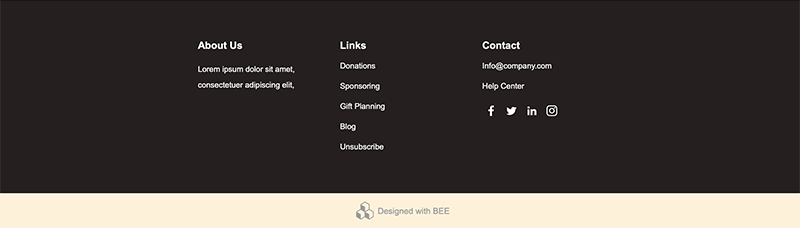
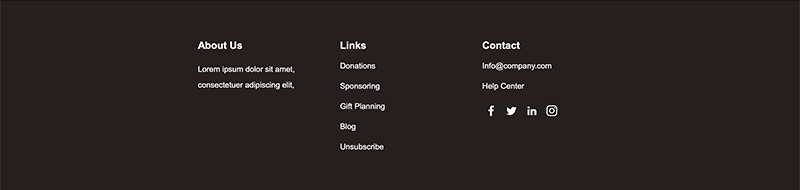
remove bee

diff --git a/resources/views/builder/themes/kids.blade.php b/resources/views/builder/themes/kids.blade.php
@@ -2772,61 +2772,7 @@
                                  </div>
                               </div>
                            </div>
-<div builder-element="BlockElement" builder-draggable="" style="background-color:transparent;">
-                              <div class="block-grid container" style="overflow-wrap: break-word; word-wrap: break-word; word-break: break-word; Margin: 0 auto; background-color: transparent;">
-                                 <div style="border-collapse: collapse;display: table;width: 100%;background-color:transparent;">
-                                    <!--[if (mso)|(IE)]>
-                                    <table width="100%" cellpadding="0" cellspacing="0" border="0" style="background-color:transparent;">
-                                       <tr>
-                                          <td align="center">
-                                             <table cellpadding="0" cellspacing="0" border="0" style="width:680px">
-                                                <tr class="layout-full-width" style="background-color:transparent">
-                                                   <![endif]-->
-                                                   <!--[if (mso)|(IE)]>
-                                                   <td align="center" width="680" style="background-color:transparent;width:680px; border-top: 0px solid transparent; border-left: 0px solid transparent; border-bottom: 0px solid transparent; border-right: 0px solid transparent;" valign="top">
-                                                      <table width="100%" cellpadding="0" cellspacing="0" border="0">
-                                                         <tr>
-                                                            <td style="padding-right: 0px; padding-left: 0px; padding-top:5px; padding-bottom:5px;">
-                                                               <![endif]-->
-                                                               <div class="col num12" style="display: table-cell; vertical-align: top; width: 680px;">
-                                                                  <div class="col_cont" style="width:100% !important;">
-                                                                     <!--[if (!mso)&(!IE)]><!-->
-                                                                     <div style="border-top:0px solid transparent; border-left:0px solid transparent; border-bottom:0px solid transparent; border-right:0px solid transparent; padding-top:5px; padding-bottom:5px; padding-right: 0px; padding-left: 0px;">
-                                                                        <!--<![endif]-->
-                                                                        <table cellpadding="0" cellspacing="0" role="presentation" style="table-layout: fixed; vertical-align: top; border-spacing: 0; border-collapse: collapse; mso-table-lspace: 0pt; mso-table-rspace: 0pt;" valign="top" width="100%">
-                                                                           <tbody><tr style="vertical-align: top;" valign="top">
-                                                                              <td align="center" style="word-break: break-word; vertical-align: top; padding-top: 5px; padding-right: 0px; padding-bottom: 5px; padding-left: 0px; text-align: center;" valign="top">
-                                                                                 <!--[if vml]>
-                                                                                 <table align="left" cellpadding="0" cellspacing="0" role="presentation" style="display:inline-block;padding-left:0px;padding-right:0px;mso-table-lspace: 0pt;mso-table-rspace: 0pt;">
-                                                                                    <![endif]-->
-                                                                                    <!--[if !vml]><!-->
-                                                                                    <table cellpadding="0" cellspacing="0" class="icons-inner" role="presentation" style="table-layout: fixed; vertical-align: top; border-spacing: 0; border-collapse: collapse; mso-table-lspace: 0pt; mso-table-rspace: 0pt; display: inline-block; margin-right: -4px; padding-left: 0px; padding-right: 0px;" valign="top">
-                                                                                       <!--<![endif]-->
-                                                                                       <tbody><tr style="vertical-align: top;" valign="top">
-                                                                                          <td align="center" style="word-break: break-word; vertical-align: top; text-align: center; padding-top: 5px; padding-bottom: 5px; padding-left: 5px; padding-right: 6px;" valign="top"><a builder-element="" href="https://www.designedwithbee.com/"><img builder-element="" align="center" alt="Designed with BEE" class="icon" height="32" src="{{ url('themes/kids/images/bee.png') }}" style="border:0;" width="null"></a></td>
-                                                                                          <td style="word-break: break-word; font-family: Arial, Helvetica Neue, Helvetica, sans-serif; font-size: 15px; color: #9d9d9d; vertical-align: middle; letter-spacing: undefined;" valign="middle"><a builder-element="" href="https://www.designedwithbee.com/" style="color:#9d9d9d;text-decoration:none;">Designed with BEE</a></td>
-                                                                                       </tr>
-                                                                                    </tbody></table>
-                                                                                    </td>
-                                                                                    </tr>
-                                                                                 </tbody></table>
-                                                                                 <!--[if (!mso)&(!IE)]><!-->
-                                                                     </div>
-                                                                     <!--<![endif]-->
-                                                                  </div>
-                                                               </div>
-                                                               <!--[if (mso)|(IE)]></td></tr></table><![endif]-->
-                                                               <!--[if (mso)|(IE)]>
-                                                            </td>
-                                                         </tr>
-                                                      </table>
-                                                   </td>
-                                                </tr>
-                                             </table>
-                                             <![endif]-->
-                                 </div>
-                              </div>
-                           </div>
+
             `);
 
             // default dragging html
